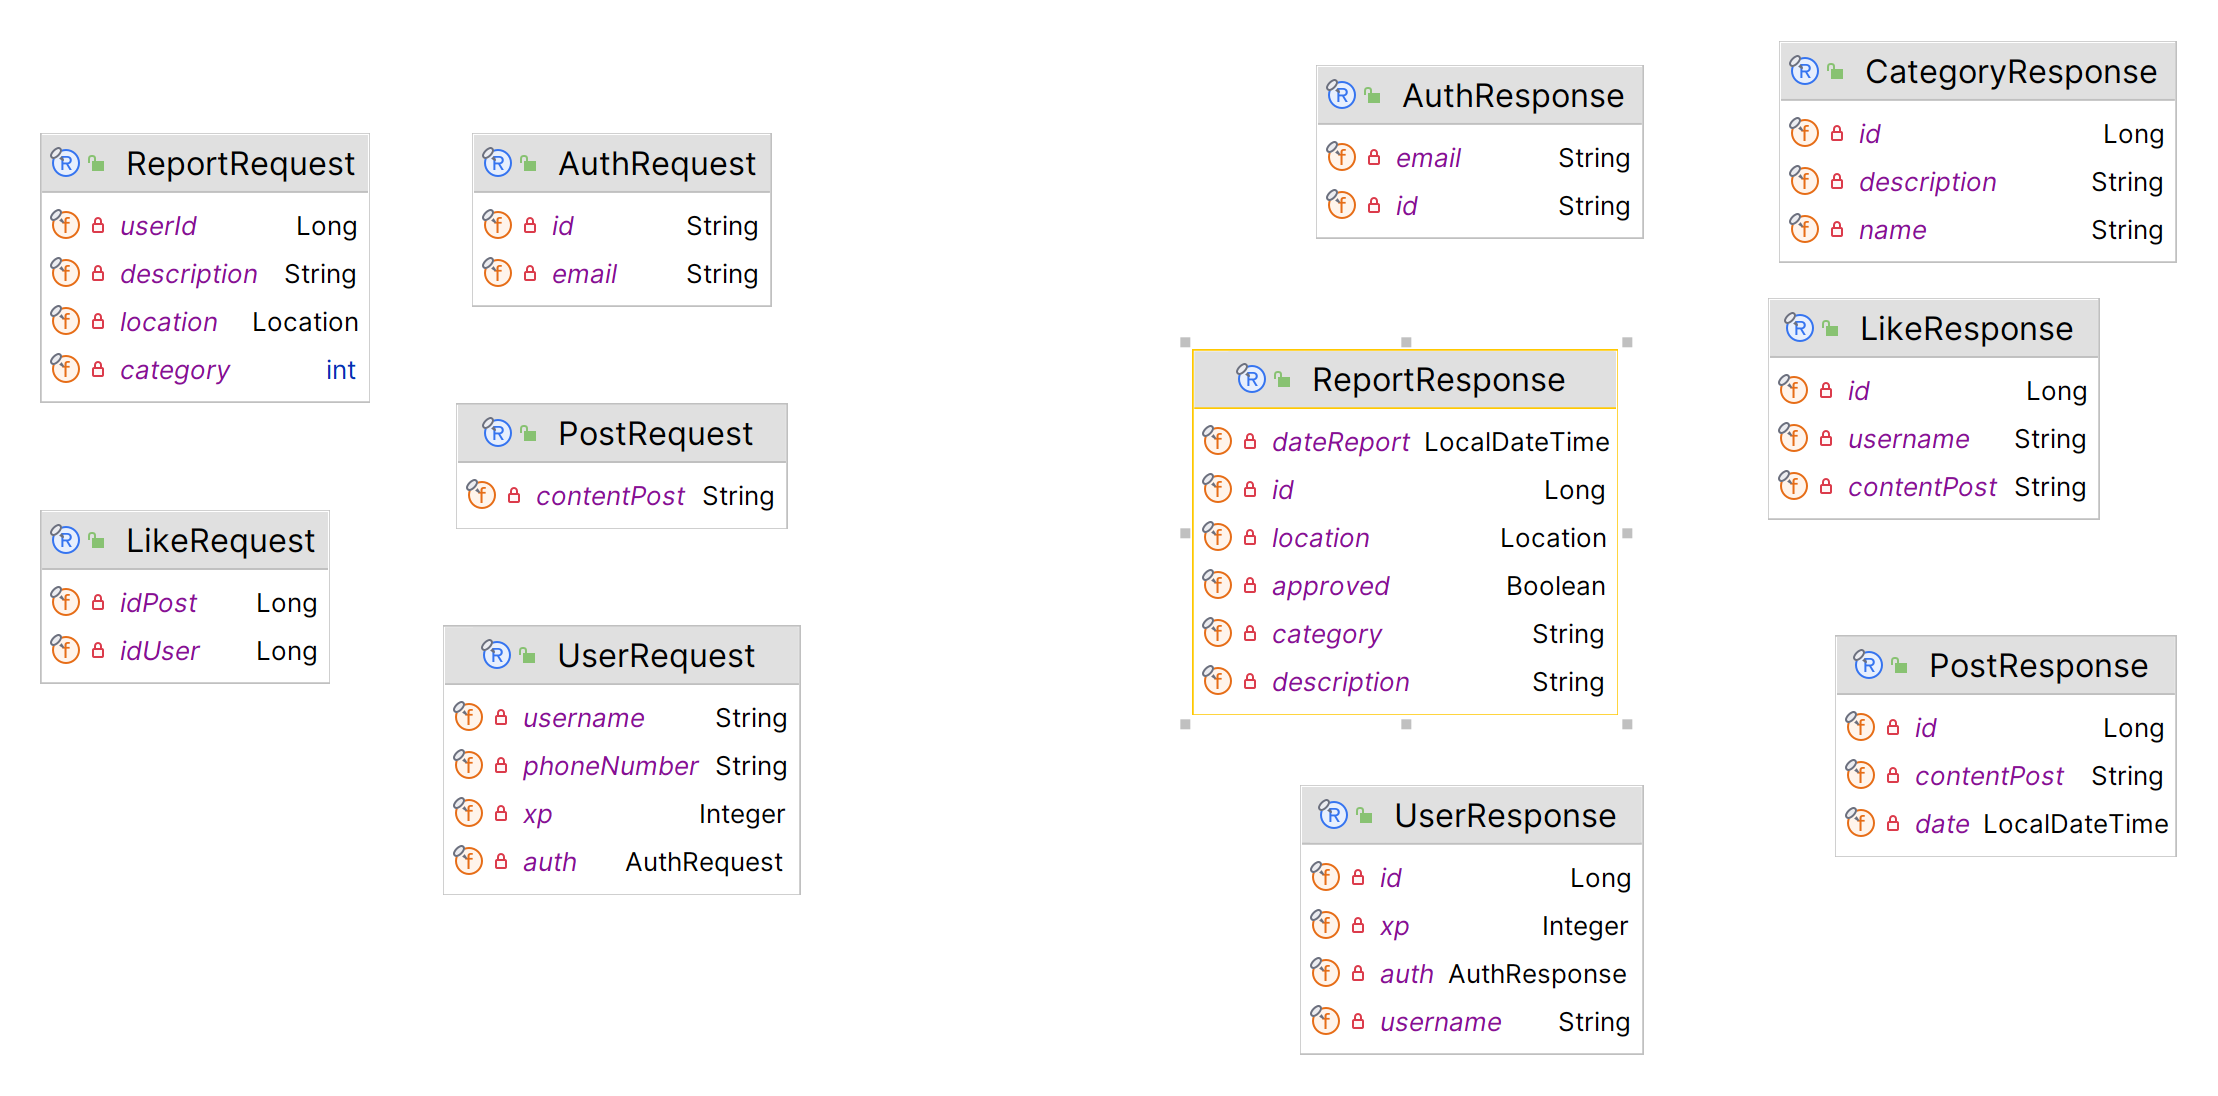
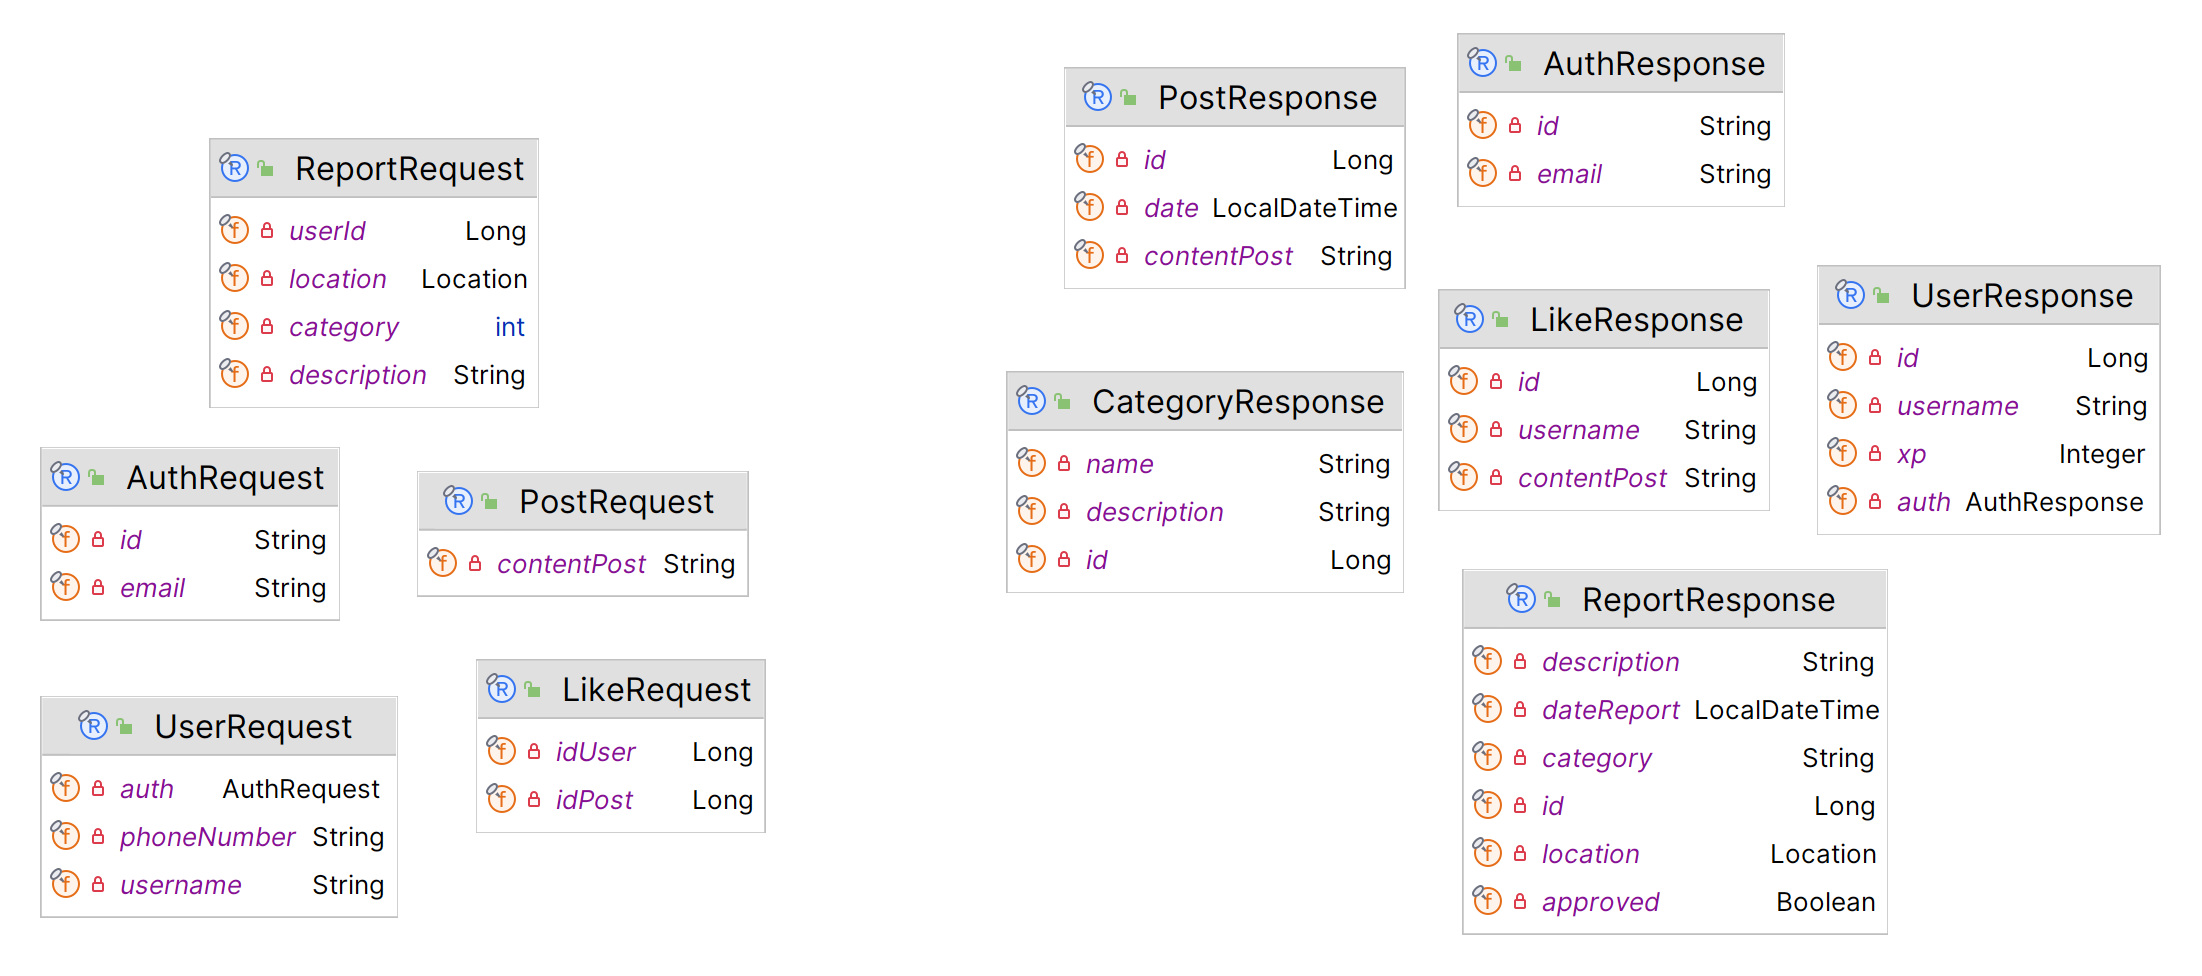
diagramas e removido comentarios

diff --git a/src/main/java/br/com/fiap/seareport/dto/request/UserRequest.java b/src/main/java/br/com/fiap/seareport/dto/request/UserRequest.java
@@ -9,15 +9,10 @@ import lombok.Builder;
 @Builder
 public record UserRequest(
 
-//        @NotBlank
-//        String name,
         @NotBlank(message = "O email é obrigatório!")
-//        @Email(message = "Email inválido!")
-//        String email,
         @NotBlank
         String username,
         String phoneNumber,
-        Integer xp,
         @NotNull
         AuthRequest auth
 
